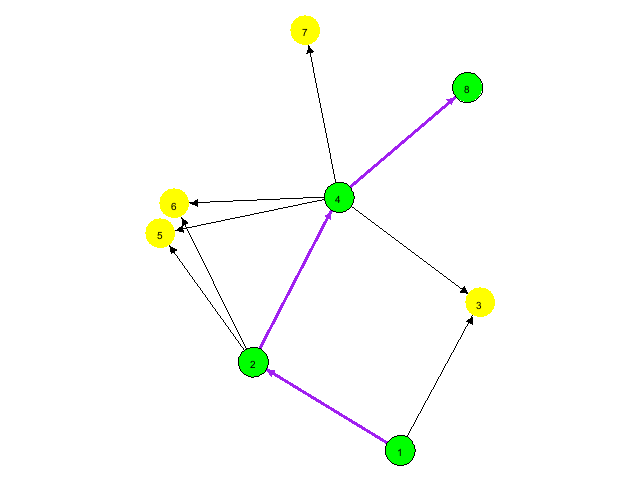
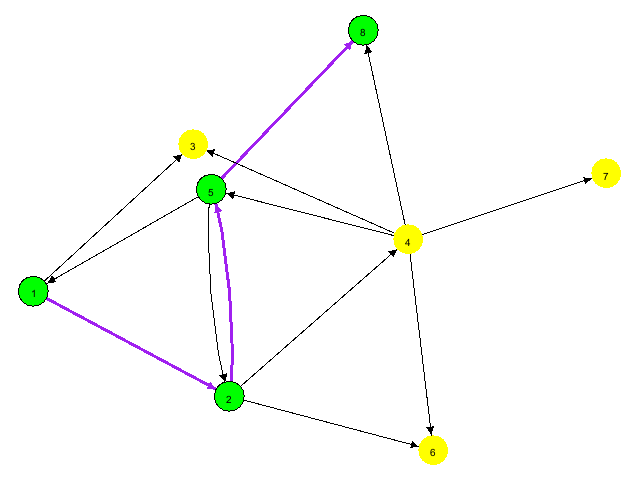
project

diff --git a/project/src/project/project.java b/project/src/project/project.java
@@ -63,6 +63,9 @@ public class project {
 	private static int size;
 	private static JFrame frame = new JFrame();
 	private static JPanel buttonJPanel;
+	private static SwingViewer viewer;
+	private static JPanel view;
+	private static ArrayList<Integer> vertex = new ArrayList<Integer>();
 	
 	public static void main(String args[]) throws IOException {
 		
@@ -79,6 +82,7 @@ public class project {
         JButton showButton = new JButton("Bai 1");
         JButton AllPAthButton = new JButton("Bai 2");
         JButton QuestionsPathButton = new JButton("Bai 3");
+        
         
         buttonJPanel = new JPanel();
         buttonJPanel.add(showButton);
@@ -148,31 +152,33 @@ public class project {
 		// TODO Auto-generated method stub
 		JFrame AllPathFrame = new JFrame();
 		JPanel vPanel = new JPanel();
+		JButton clearButton = new JButton("Clear");
+		JButton backButton = new JButton("Back");
+		vPanel.add(clearButton);
+		vPanel.add(backButton);
 		JButton[] vButtons = new JButton[max];
 		for(int i = 0; i < max; ++i) {
 			vButtons[i] = new JButton(Integer.toString(i+1));
 			vPanel.add(vButtons[i]);
 		}
-		JButton backButton = new JButton("Back");
-		JButton clearButton = new JButton("Clear");
 		
-		vPanel.add(backButton);
-		vPanel.add(clearButton);
 		vPanel.setForeground(Color.GREEN);
 		
 		AllPathFrame.getContentPane().add(vPanel, BorderLayout.SOUTH);
-		AllPathFrame.setPreferredSize(new Dimension(550, 550));
+		AllPathFrame.setPreferredSize(new Dimension(560, 560));
 		AllPathFrame.setDefaultCloseOperation(JFrame.DISPOSE_ON_CLOSE);
 		
 		AllPathFrame.addWindowListener(new WindowAdapter() {
 			public void windowClosing(WindowEvent windowEvent) {
 				AllPathFrame.dispose();
+				omw.clear();
 			}
 		});
 		setLabel(AllPathFrame);
-		AllPathFrame.pack();
-		AllPathFrame.setVisible(true);
+		
 		getView(AllPathFrame);
+		
+
 		for(int i = 0; i < max; ++i) {
 			vButtons[i].addActionListener(new ActionListener() {
 				
@@ -184,6 +190,24 @@ public class project {
 							try {
 								i3 = i;
 								omw.addOption(1, i3);
+								for(int j = 0; j < max; ++j) {
+									if(vertex.contains(j+1)) {
+										vPanel.remove(vButtons[j]);
+									}
+									vPanel.add(vButtons[j]);
+								}
+								vertex = omw.getVertex();
+								for(int j = 0; j < max; ++j) {
+									if(!vertex.contains(j+1)) {
+										vPanel.remove(vButtons[j]);
+									}
+								}
+								AllPathFrame.getContentPane().add(vPanel, BorderLayout.SOUTH);
+								AllPathFrame.getContentPane().remove(view);
+								view = omw.getViewer();
+								AllPathFrame.add(view);
+								AllPathFrame.pack();
+								AllPathFrame.setVisible(true);
 							} catch (IOException e1) {
 								// TODO Auto-generated catch block
 								e1.printStackTrace();
@@ -192,6 +216,7 @@ public class project {
 					}
 				}
 			});
+			
 		}
 		
 		backButton.addActionListener(new ActionListener() {
@@ -201,21 +226,55 @@ public class project {
 				// TODO Auto-generated method stub
 				try {
 					omw.addOption(0, i3);
+					for(int j = 0; j < max; ++j) {
+						if(vertex.contains(j+1)) {
+							vPanel.remove(vButtons[j]);
+						}
+							vPanel.add(vButtons[j]);
+
+					}
+					vertex = omw.getVertex();
+					for(int j = 0; j < max; ++j) {
+						if(!vertex.contains(j+1)) {
+							vPanel.remove(vButtons[j]);
+						}
+					}
+					AllPathFrame.getContentPane().add(vPanel, BorderLayout.SOUTH);
+					AllPathFrame.getContentPane().remove(view);
+					view = omw.getViewer();
+					AllPathFrame.add(view);
+					AllPathFrame.pack();
+					AllPathFrame.setVisible(true);
 				} catch (IOException e1) {
 					// TODO Auto-generated catch block
 					e1.printStackTrace();
 				}
 			}
 		});
-		
 		clearButton.addActionListener(new ActionListener() {
 			
 			@Override
 			public void actionPerformed(ActionEvent e) {
 				// TODO Auto-generated method stub
 				omw.clear();
+				for(int j = 0; j < max; ++j) {
+					if(vertex.contains(j+1)) {
+						vPanel.remove(vButtons[j]);
+					}
+					vPanel.add(vButtons[j]);
+				}
+				AllPathFrame.getContentPane().add(vPanel, BorderLayout.SOUTH);
+				AllPathFrame.getContentPane().remove(view);
+				view = omw.getViewer();
+				AllPathFrame.add(view);
+				AllPathFrame.pack();
+				AllPathFrame.setVisible(true);
 			}
 		});
+		
+		
+		AllPathFrame.pack();
+		AllPathFrame.setVisible(true);
 	}
 	
 	
@@ -232,7 +291,7 @@ public class project {
 		vPanel.setForeground(Color.GREEN);
 		
 		AllPathFrame.getContentPane().add(vPanel, BorderLayout.SOUTH);
-		AllPathFrame.setPreferredSize(new Dimension(500, 500));
+		AllPathFrame.setPreferredSize(new Dimension(560, 560));
 		AllPathFrame.setDefaultCloseOperation(JFrame.DISPOSE_ON_CLOSE);
 		
 		AllPathFrame.addWindowListener(new WindowAdapter() {
@@ -245,7 +304,7 @@ public class project {
 		AllPathFrame.setVisible(true);
 		getView(AllPathFrame);
 		
-		
+		c[0] = 0;
 		for(int i = 0; i < max; ++i) {
 			c[i + 1] = 0;
 			vButtons[i].addActionListener(new ActionListener() {
@@ -283,6 +342,8 @@ public class project {
 								g.runDFS(i1 , i2, "path between vertex " + i1 + " and vertex " +i2 );
 								c[i1] = 0;
 								c[i2] = 0;
+								i1 = 0;
+								i2 = 0;
 							}
 						}
 					}
@@ -300,7 +361,8 @@ public class project {
 		graph.setAutoCreate( true );
         String data = "1 2 3\n"
         		+ "2 5 6 4\n"
-        		+ "4 3 5 6 8 7";
+        		+ "4 3 5 6 8 7\n"
+        		+ "5 2 1 8";
         
         try {
             // Creates a Writer using FileWriter
@@ -394,9 +456,9 @@ public class project {
         
 	}
 	public static void getView(JFrame frame) {
-    	SwingViewer viewer = new SwingViewer(graph, Viewer.ThreadingModel.GRAPH_IN_ANOTHER_THREAD);
+    	viewer = new SwingViewer(graph, Viewer.ThreadingModel.GRAPH_IN_ANOTHER_THREAD);
         viewer.enableAutoLayout();
-        JPanel view = (JPanel) viewer.addDefaultView(false);
+        view = (JPanel) viewer.addDefaultView(false);
         frame.getContentPane().add(view);
     }
 	

diff --git a/project/src/project/OnMyWay.java b/project/src/project/OnMyWay.java
@@ -8,10 +8,13 @@ import java.util.NoSuchElementException;
 import java.util.Scanner;
 
 import javax.swing.JOptionPane;
+import javax.swing.JPanel;
 
 import org.graphstream.graph.Edge;
 import org.graphstream.graph.Node;
 import org.graphstream.graph.implementations.SingleGraph;
+import org.graphstream.ui.swing_viewer.SwingViewer;
+import org.graphstream.ui.view.Viewer;
 import org.graphstream.ui.view.Viewer.CloseFramePolicy;
 
 public class OnMyWay extends GraphLinkedList{
@@ -25,6 +28,7 @@ public class OnMyWay extends GraphLinkedList{
 	private Edge edge;
 	private String a;
 	private String b;
+	private ArrayList<Integer> vertex = new ArrayList<Integer>();
 	OnMyWay(int vertices) {
 		super(vertices);
 		// TODO Auto-generated constructor stub
@@ -42,7 +46,6 @@ public class OnMyWay extends GraphLinkedList{
 		stack.clear();
 		graph = new SingleGraph("Use");
     	graphDraw();
-    	graph.display().setCloseFramePolicy(CloseFramePolicy.CLOSE_VIEWER);
 	}
 	void addOption(int i, int pl) throws IOException {
 		if(stack.size() > 0) {
@@ -60,7 +63,6 @@ public class OnMyWay extends GraphLinkedList{
 			}
 			place =stack.get(stack.size() -1);
 			stepBack();
-			graph.display().setCloseFramePolicy(CloseFramePolicy.CLOSE_VIEWER);
 		}
 	}
 	
@@ -68,19 +70,18 @@ public class OnMyWay extends GraphLinkedList{
 		
 		if (stack.size() == 0) {
 			stack.add(place);
-			System.out.println(place);
 			visited[place] = true;
 			v[place].setAttribute("ui.style", "shape:circle;fill-color: green;size: 30px;");
 			v[place].setAttribute("ui.label", Integer.toString(place));
-			graph.display().setCloseFramePolicy(CloseFramePolicy.CLOSE_VIEWER);
 		}
 		else {
 			ite = adjLists[prePlace].listIterator();
 			int countemp = 0;
 		    while (ite.hasNext()) {
 		        int adj = ite.next();
-		        if (!visited[adj])
+		        if (!visited[adj]) {
 		        	countemp = 1;
+		        }
 		    }
 		    if (countemp == 0)
 		    	JOptionPane.showMessageDialog(null, "Sorry, there is not no way to choose!", null, JOptionPane.INFORMATION_MESSAGE);
@@ -96,7 +97,6 @@ public class OnMyWay extends GraphLinkedList{
 	    		String b = Integer.toString(stack.get(stack.size() - 1));
 	    		Edge edge=graph.getEdge(a + " " + b);
 	    		edge.setAttribute("ui.style", "fill-color: purple; size: 3px;");
-	    		graph.display().setCloseFramePolicy(CloseFramePolicy.CLOSE_VIEWER);
 		    }
 		}
 	}
@@ -112,7 +112,6 @@ public class OnMyWay extends GraphLinkedList{
 			edge.setAttribute("ui.style", "fill-color: black; size: 0.8px;");
 			visited[place] = false;
 			stack.remove(stack.size() - 1);
-			System.out.println(place);
 			place = stack.get(stack.size() - 1);
 		}
 		else {
@@ -129,6 +128,33 @@ public class OnMyWay extends GraphLinkedList{
 			}
 		}
 		return false;
+	}
+	
+	public JPanel getViewer() {
+		SwingViewer viewer = new SwingViewer(graph, Viewer.ThreadingModel.GRAPH_IN_ANOTHER_THREAD);
+        viewer.enableAutoLayout();
+        JPanel view = (JPanel) viewer.addDefaultView(false);
+        return view;
+	}
+	
+	public ArrayList<Integer> getVertex() {
+		vertex.clear();
+		if(stack.size() > 0) {
+		ite = adjLists[place].iterator();
+		while (ite.hasNext()) {
+	        int adj = ite.next();
+	        if (!visited[adj]) {
+	        	vertex.add(adj);
+	        }
+	    }
+	
+		}
+		else {
+			for(int i = 1; i <= vertices; ++i) {
+				vertex.add(i);
+			}
+		}
+		return vertex;
 	}
 	
 }

diff --git a/project/src/project/DFS.java b/project/src/project/DFS.java
@@ -80,15 +80,17 @@ public class DFS extends GraphLinkedList{
     void runDFS(int vertex, int end) {
     	runDFS(vertex, end, true);
     	if (count == 0){
-    		JOptionPane.showMessageDialog(null, "No path!", null, JOptionPane.INFORMATION_MESSAGE);
+    		JOptionPane.showMessageDialog(null, "No path!", "vertex " + vertex + " and vertex " + end, JOptionPane.INFORMATION_MESSAGE);
     	} 
     	//empty the stack here
     	stack.clear();
     	count = 0;
+    	
+    	
     }
     void runDFS(int vertex, int end, String path) {
     	this.path = path;
-    	runDFS(vertex, end, true);
+    	runDFS(vertex, end);
 
     }
 
